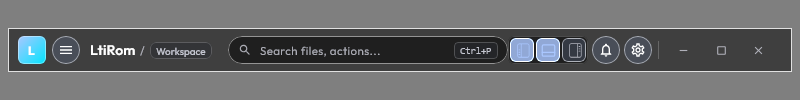
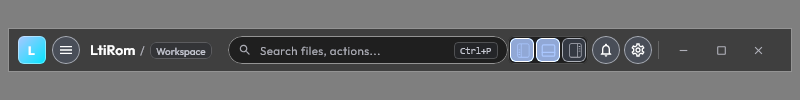
Fix top bar and status bar rendering a 2.5x-too-strong white border
Both bars' outer .border() calls did
glassColors.glassBorder.copy(alpha = AlphaTokens.Border) (0.50). Color.copy
replaces alpha rather than multiplying it, and glassBorder is already
colorScheme.onSurface (a bright near-white color) pre-blended at
AlphaTokens.Hover (0.20) in Color.kt. The .copy() call discarded that
0.20 and re-stamped 0.50 - a 2.5x stronger, near-white rectangular
outline around all four edges of each bar, visually detaching them from
the rest of the glass UI, which uses the plain 0.20 glassBorder (or
0.05 AlphaTokens.Faint for dividers) everywhere else, including the
other three border() calls already in GlassTopBar.kt itself.

Changed both to use glassColors.glassBorder directly, matching the
existing pattern already used elsewhere in the same file
(GlassTopBar.kt:435,470) and in GlassBottomTabs.kt:300.

Verified: real forced build (compile/detekt/guardrails) passes.
testGlassTopBar correctly failed pre-fix-regen with a real pixel diff,
confirming the change has a genuine visual effect. Regenerated only
glass_top_bar.png (git diff confirms the other 7 baselines are
byte-identical - no unintended side effects), then reconfirmed
0.0000% diff across 2 independent fresh Gradle daemons. No screenshot
baseline exists for GlassStatusBar; fix verified there by direct code
reading (identical bug, identical fix pattern).

Changed region(s): [[0.0, 0.69, 1.0, 0.72], [0.0, 0.27, 1.0, 0.3]]

diff --git a/core/designsystem/src/commonMain/kotlin/org/ide/lti/core/designsystem/component/GlassStatusBar.kt b/core/designsystem/src/commonMain/kotlin/org/ide/lti/core/designsystem/component/GlassStatusBar.kt
@@ -89,7 +89,7 @@ fun GlassStatusBar(
             )
             .border(
                 width = StrokeWidth.Hairline,
-                color = glassColors.glassBorder.copy(alpha = AlphaTokens.Border),
+                color = glassColors.glassBorder,
                 shape = RoundedCornerShape(CornerRadius.None)
             )
             .padding(horizontal = Spacing.SmallMedium),

diff --git a/core/designsystem/src/commonMain/kotlin/org/ide/lti/core/designsystem/component/GlassTopBar.kt b/core/designsystem/src/commonMain/kotlin/org/ide/lti/core/designsystem/component/GlassTopBar.kt
@@ -144,7 +144,7 @@ fun GlassTopBar(
             )
             .border(
                 width = StrokeWidth.Hairline,
-                color = glassColors.glassBorder.copy(alpha = AlphaTokens.Border),
+                color = glassColors.glassBorder,
                 shape = RoundedCornerShape(CornerRadius.None)
             )
             .padding(horizontal = Spacing.MediumSmall),
